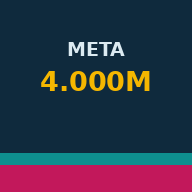
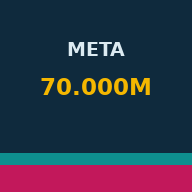
Add files via upload

Changed region(s): [[0.1875, 0.3438, 0.7812, 0.5]]

diff --git a/index.html b/index.html
@@ -8,7 +8,7 @@
 <meta name="theme-color" content="#0F2A3D">
 <meta name="mobile-web-app-capable" content="yes">
 <meta name="apple-mobile-web-app-capable" content="yes">
-<meta name="apple-mobile-web-app-title" content="META 4.000M">
+<meta name="apple-mobile-web-app-title" content="META">
 <meta name="apple-mobile-web-app-status-bar-style" content="black-translucent">
 <link rel="icon" type="image/png" href="icon-192.png">
 <link rel="apple-touch-icon" href="icon-192.png">
@@ -102,19 +102,20 @@ pre{margin:0;background:var(--code);color:var(--codeink);padding:20px;border-rad
 .mainb .link{color:#7FD6C2;padding:0;font-size:inherit}
 .mainb i{color:#F5B700;font-style:normal}
 .c2{font-size:.85rem;color:var(--mut)}
+.fr{display:flex}.fr .t.l2{flex:1;min-width:0}.t.rn{width:auto;flex:none;padding:4px 10px;color:#7A97A8}
 @media (max-width:760px){.ide{grid-template-columns:1fr}#tree{border-right:0;border-bottom:1px solid #1d3b52;max-height:320px}}
 @media (max-width:420px){.row{grid-template-columns:1fr}}
 </style>
 </head>
 <body>
 <header>
-  <h1>META&nbsp;4.000.000.000&nbsp;COP</h1>
+  <h1 id="h1t">META&nbsp;4.000.000.000&nbsp;COP</h1>
   <p class="sub">Cada proyecto es un módulo con una función, una entrada, una salida y una métrica. La meta es la suma de lo que aporta cada uno.</p>
   <div class="big"><b id="logrado" class="money">$0</b><span>logrado de <span class="money" id="metaTxt"></span> · <span id="pctTotal">0%</span></span></div>
   <div class="track" id="track" role="img" aria-label="Progreso total hacia la meta"></div>
   <div class="legend" id="legend"></div>
   <div id="check"></div>
-  <div class="tools"><button id="install" hidden>Instalar como app</button><button id="logout" class="link" hidden>Cerrar sesión</button><button id="chpw" class="link" hidden>Cambiar contraseña</button><span id="sync"></span><span id="sync2"></span></div>
+  <div class="tools"><button id="install" hidden>Instalar como app</button><button id="logout" class="link" hidden>Cerrar sesión</button><button id="chpw" class="link" hidden>Cambiar contraseña</button><button id="chg" class="link">Cambiar meta total</button><span id="sync"></span><span id="sync2"></span></div>
 </header>
 <div id="login" hidden>
   <form id="lf">
@@ -134,7 +135,7 @@ pre{margin:0;background:var(--code);color:var(--codeink);padding:20px;border-rad
 
 <section class="codep" id="explorer-sec">
   <h2>Explorador de proyectos</h2>
-  <p class="sub">Abre cada proyecto como una carpeta. En <b>aporte.ts</b> ves cuánto suma a la meta general; en <b>puerta-de-avance.md</b>, lo que falta para pasar de estado.</p>
+  <p class="sub">Abre cada proyecto como una carpeta. En <b>resumen/aporte.ts</b> ves cuánto suma a la meta general; en <b>puerta-de-avance.md</b>, lo que falta para pasar de estado.</p>
   <div class="ide">
     <nav id="tree" aria-label="Árbol de proyectos"></nav>
     <div class="ed"><div id="tabs" hidden></div><div id="crumb"></div><div id="edit"></div></div>
@@ -149,7 +150,8 @@ pre{margin:0;background:var(--code);color:var(--codeink);padding:20px;border-rad
 
 <script src="https://cdn.jsdelivr.net/npm/@supabase/supabase-js@2.45.4/dist/umd/supabase.min.js"></script>
 <script>
-const META = 4000000000;
+let META = 4000000000;
+try { const tv = +localStorage.getItem("meta4000_total"); if (tv > 0) META = tv; } catch(e) {}
 const KEY = "meta4000_v1";
 const SB_URL = "https://czqucfdsepaudrpypctz.supabase.co";
 const SB_KEY = "sb_publishable_bXsOY8SWOgbFJ-mQgtu78g_syXEY-fg";
@@ -224,7 +226,7 @@ function summary(){
 function code(){
   const lo = S.reduce((a,m)=>a+m.logrado,0);
   const L = [];
-  L.push(`<span class="c">// workspace: META-4.000.000.000-COP</span>`);
+  L.push(`<span class="c">// workspace: META-${META.toLocaleString("es-CO")}-COP</span>`);
   L.push(`<span class="k">const</span> META = <span class="n">${META.toLocaleString("en-US").replace(/,/g,"_")}</span>; <span class="c">// COP</span>\n`);
   S.forEach(m=>{
     L.push(`<span class="k">module</span> ${m.id} {`);
@@ -277,7 +279,7 @@ window.addEventListener("beforeinstallprompt", e => {
 /* Explorador de proyectos (árbol) */
 const AK = "meta4000_arbol_v1";
 const BR = [
- ["aporte","aporte.ts","calc"],
+ ["resumen","aporte.ts","calc"],
  ["avance","puerta-de-avance.md","check"],
  ["recursos","requeridos.md","check"],["recursos","existentes.md","check"],["recursos","basicos.md","check"],["recursos","faltantes.md","check"],
  ["personas","contactos.md","nota"],["personas","aliados.md","check"],["personas","proveedores.md","check"],["personas","equipo.md","check"],["personas","clientes-objetivo.md","nota"],
@@ -324,14 +326,14 @@ function prog(m){
   return [d, t];
 }
 function renderTree(){
-  let h = `<div class="t l1" style="cursor:default"><span class="ar">▾</span>META-4.000.000.000-COP</div><button class="t l1" data-main="1"><span class="ar"> </span>▶ MAIN</button>`;
+  let h = `<div class="t l1" style="cursor:default"><span class="ar">▾</span>META-${META.toLocaleString("es-CO")}-COP</div><button class="t l1" data-main="1"><span class="ar"> </span>▶ MAIN</button>`;
   S.forEach(m => {
     const o = openM.has(m.id), [d,t] = prog(m);
     h += `<button class="t l1" data-m="${m.id}"><span class="ar">${o?"▾":"▸"}</span><i style="display:inline-block;width:9px;height:9px;border-radius:2px;background:${m.color}"></i>${m.id}<em>${d}/${t}</em></button>`;
     if (!o) return;
     folders(m).forEach(f => {
       const fo = openF.has(m.id+"/"+f), fl = files(m).filter(b => b[0] === f);
-      h += `<button class="t l2" data-f="${m.id}|${esc(f)}"><span class="ar">${fo?"▾":"▸"}</span>${esc(f)}/</button>`;
+      h += `<div class="fr"><button class="t l2" data-f="${m.id}|${esc(f)}"><span class="ar">${fo?"▾":"▸"}</span>${esc(fname(f))}/</button><button class="t rn" data-ren="${esc(f)}" title="Renombrar carpeta" aria-label="Renombrar carpeta ${esc(fname(f))}">✎</button></div>`;
       if (!fo) return;
       fl.forEach(b => {
         const p = f+"/"+b[1], on = sel && sel.m === m.id && sel.p === p;
@@ -349,7 +351,7 @@ function renderEd(){
   renderTabs();
   if (!sel) { $("crumb").textContent = "META › selecciona un proyecto"; $("edit").innerHTML = '<p class="c">Abre un proyecto en el árbol y elige un archivo para ver o editar su contexto.</p>'; return; }
   const m = S.find(x => x.id === sel.m), p = sel.p, ty = typeOf(m,p);
-  $("crumb").textContent = "META › " + m.id + " › " + p.replace("/", " › ");
+  $("crumb").textContent = "META › " + m.id + " › " + fname(p.split("/")[0]) + " › " + p.split("/")[1];
   let h = `<h3>${esc(p.split("/")[1])}</h3>`;
   if (X(m).some(x => x.f+"/"+x.n === p)) h += `<p class="c"><button class="link" id="ren">Renombrar</button> · <button class="link" id="del">Eliminar archivo</button></p>`;
   if (ty === "calc") {
@@ -422,6 +424,40 @@ document.addEventListener("click", e => {
   const mm = (A.__main = A.__main || {}); (mm.rev = mm.rev || []).push(new Date().toLocaleDateString("en-CA")); mm.rev = mm.rev.slice(-20);
   persist(); renderMain();
 });
+function fname(f){ return ((A.__cfg || {}).fn || {})[f] || f; }
+function renFolder(f){
+  const cur = fname(f), raw = prompt("Nuevo nombre para la carpeta «" + cur + "» (aplica a todos los proyectos):", cur);
+  if (raw === null) return;
+  const nn = clean(raw).replace(/\.+$/, ""); if (!nn || nn === cur) return;
+  const all = new Set(); S.forEach(m => folders(m).forEach(x => all.add(x)));
+  if ([...all].some(x => x !== f && fname(x).toLowerCase() === nn.toLowerCase())) { alert("Ya existe una carpeta con ese nombre."); return; }
+  const c = (A.__cfg = A.__cfg || {}); c.fn = c.fn || {};
+  if (nn === f) delete c.fn[f]; else c.fn[f] = nn;
+  persist(); renderTree(); renderEd();
+}
+function setTitle(){
+  const t = META.toLocaleString("es-CO");
+  $("h1t").innerHTML = "META&nbsp;" + t + "&nbsp;COP";
+  document.title = "META " + t + " COP · Workspace";
+}
+function changeMeta(){
+  const raw = prompt("Nueva meta total en millones de COP (por ejemplo 70000 = $70.000 millones):", String(Math.round(META/1e6)));
+  if (raw === null) return;
+  const mm = parseInt(String(raw).replace(/\D/g, ""), 10);
+  if (!mm || mm < 1) { alert("Escribe un número de millones mayor que cero."); return; }
+  const old = S.reduce((a,m) => a + m.meta, 0), nuevo = mm * 1e6;
+  META = nuevo;
+  try { localStorage.setItem("meta4000_total", String(META)); } catch(e) {}
+  (A.__cfg = A.__cfg || {}).meta = META; persist();
+  if (old > 0 && confirm("¿Repartir las metas de los módulos en proporción para que sumen la nueva meta?\n\nAceptar = repartir. Cancelar = dejarlas como están y ajustarlas tú.")) {
+    S.forEach(m => { m.meta = Math.round(m.meta * nuevo / old / 1e6) * 1e6; });
+    const diff = nuevo - S.reduce((a,m) => a + m.meta, 0);
+    if (diff) { const big = S.reduce((a,m) => m.meta > a.meta ? m : a, S[0]); big.meta += diff; }
+    buildCards();
+  }
+  setTitle(); refresh(); renderTree(); renderEd();
+}
+$("chg").addEventListener("click", changeMeta);
 function pick(m,p){ sel = {m,p}; if (!tabs.some(t => t.m === m && t.p === p)) tabs.push({m,p}); }
 function renderTabs(){
   $("tabs").innerHTML = tabs.map((t,i) => `<div class="tab${sel&&sel.m===t.m&&sel.p===t.p?" on":""}"><button data-tab="${i}">${esc(t.p.split("/")[1])} <small>${esc(t.m)}</small></button><button class="cl" data-close="${i}" aria-label="Cerrar pestaña">✕</button></div>`).join("");
@@ -438,7 +474,7 @@ $("tabs").addEventListener("click", e => {
   renderTree(); renderEd();
 });
 function openMod(id){
-  openM.add(id); openF.add(id+"/aporte"); pick(id, "aporte/aporte.ts");
+  openM.add(id); openF.add(id+"/resumen"); pick(id, "resumen/aporte.ts");
   renderTree(); renderEd(); $("explorer-sec").scrollIntoView({behavior:"smooth"});
 }
 const curM = () => S.find(x => x.id === sel.m);
@@ -457,7 +493,7 @@ function addFolder(mid){
   const m = S.find(x => x.id === mid), raw = prompt("Nombre de la nueva carpeta (por ejemplo: ideas, permisos, reuniones):");
   if (raw === null) return;
   const f = clean(raw).replace(/\.+$/, ""); if (!f) return;
-  if (folders(m).some(x => x.toLowerCase() === f.toLowerCase())) { alert("Ya existe una carpeta con ese nombre."); return; }
+  if (folders(m).some(x => x.toLowerCase() === f.toLowerCase() || fname(x).toLowerCase() === f.toLowerCase())) { alert("Ya existe una carpeta con ese nombre."); return; }
   const d = (A[mid] = A[mid] || {}); (d.__f = d.__f || []).push(f);
   persist(); openM.add(mid); openF.add(mid+"/"+f); renderTree();
 }
@@ -491,6 +527,7 @@ $("tree").addEventListener("click", e => {
   const b = e.target.closest("button"); if (!b) return;
   const d = b.dataset;
   if (d.main) { $("mainp").scrollIntoView({behavior:"smooth"}); return; }
+  else if (d.ren) { renFolder(d.ren); return; }
   else if (d.m) { openM.has(d.m) ? openM.delete(d.m) : openM.add(d.m); }
   else if (d.f) { const k = d.f.replace("|","/"); openF.has(k) ? openF.delete(k) : openF.add(k); }
   else if (d.p) { const [mm, ...r] = d.p.split("|"); pick(mm, r.join("|")); }
@@ -535,12 +572,14 @@ async function pullA(){
   const {data, error} = await sb.from("meta_arbol").select("*");
   if (error) { $("sync2").textContent = "Árbol sin sincronizar (¿creaste la tabla meta_arbol?)"; return; }
   data.forEach(r => { A[r.id] = r.data || {}; });
+  const cg = A.__cfg;
+  if (cg && cg.meta > 0 && cg.meta !== META) { META = cg.meta; try { localStorage.setItem("meta4000_total", String(META)); } catch(e) {} setTitle(); summary(); code(); }
   try { localStorage.setItem(AK, JSON.stringify(A)); } catch(e) {}
   $("sync2").textContent = "Árbol sincronizado";
   renderTree(); renderEd();
   if (!data.length) pushA();
 }
-renderTree(); renderEd();
+renderTree(); renderEd(); setTitle();
 
 /* Nube (Supabase): inicio de sesión + sincronización */
 const setSync = t => { $("sync").textContent = t; };

diff --git a/sw.js b/sw.js
@@ -1,4 +1,4 @@
-const CACHE = "meta4000-v2";
+const CACHE = "meta4000-v3";
 const FILES = ["./", "index.html", "manifest.webmanifest", "icon-192.png", "icon-512.png"];
 self.addEventListener("install", e => {
   e.waitUntil(caches.open(CACHE).then(c => c.addAll(FILES)).then(() => self.skipWaiting()));
